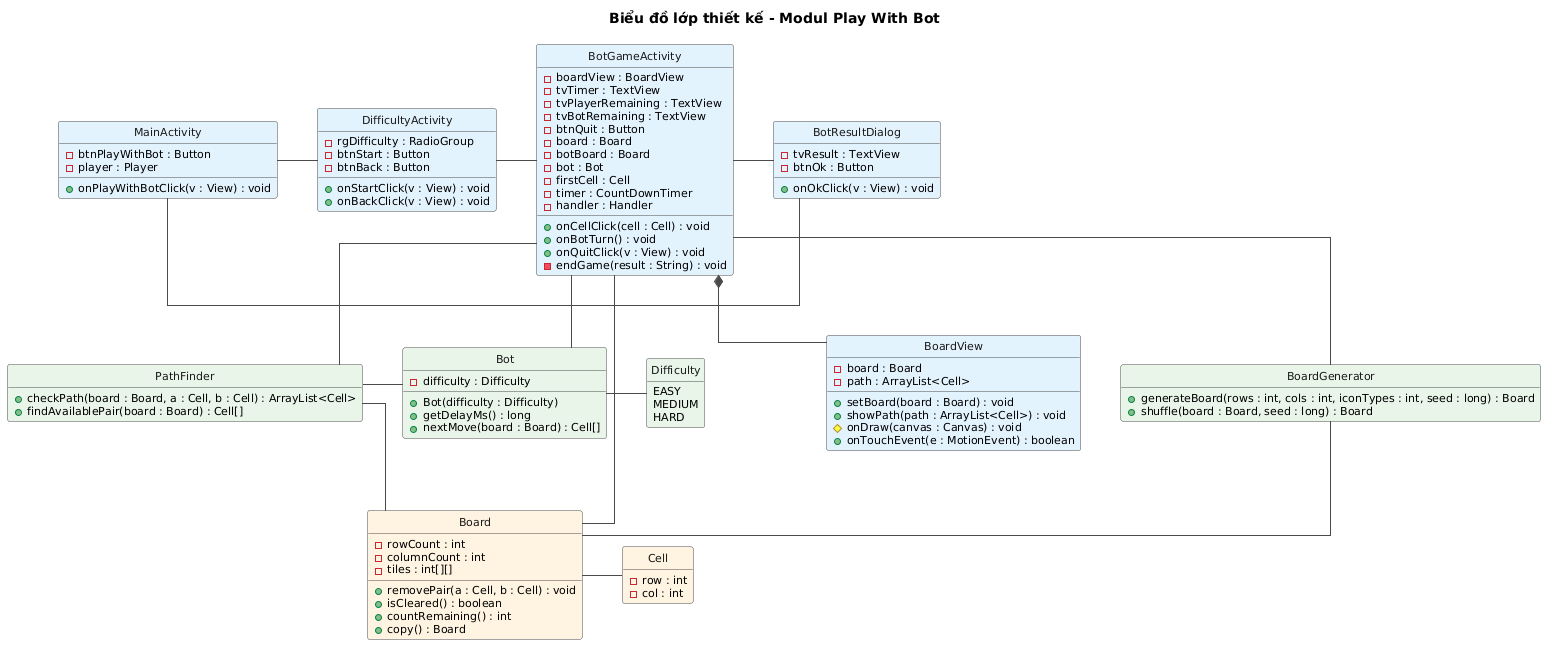
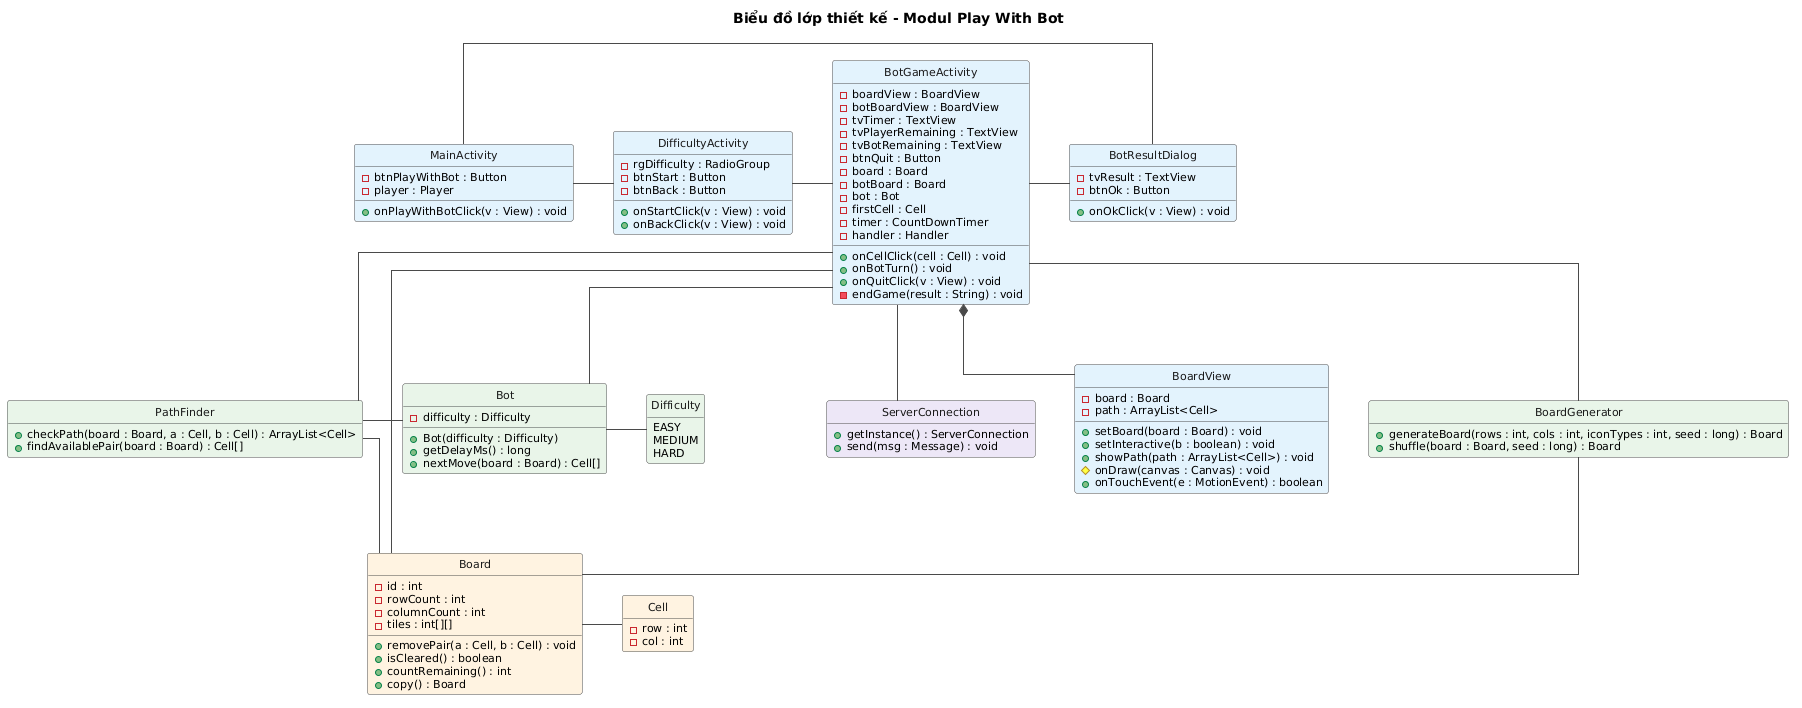
docs: review phase 3 and fix gaps before sharing
- Drop the solo mode: it had no requirement in phase 1-2 (phase 3 text,
  ui-m2, ui-m3, protocol, phase 4 row, phase 5 SO_1-SO_4).
- Board gets an id in the entity design (textbook step 1); it goes away
  when tblBoard is merged into tblMatch and tblMatchResult.
- Training status is now designed: BotGameActivity sends UPDATE_STATUS
  (v3, sequence, activity and class diagrams of M2), handled by
  ChallengeController.handleUpdateStatus(). New abstract BaseActivity
  opens InvitationDialog on any screen and leaves a bot game on
  MATCH_START. New test CP_18.
- Invite rule is "not busy" (idle or training) in v3 M3 and phase 4.
- One main-screen layout across ui-m1/m2/m3; invitation buttons are
  OK / Reject as in the assignment; result question matches phase 2.
- getTotalPoints shows 0 for players without matches; the board
  generator and shuffle create Random once before the loop.
- Package diagram lists BaseActivity and ChallengeConfirmDialog;
  activity M1 puts server swimlanes next to client ones like M3.
- Phase 3 no longer points to plan.md, so it reads on its own.
- Google Doc "BTL Mobile": phase 3 appended (19 figures, 4 tables);
  phase 1-2 and the teammate's figure 2.1 untouched.

diff --git a/docs/uml/pha3/gen_seq.py b/docs/uml/pha3/gen_seq.py
@@ -96,6 +96,7 @@ M2_PARTS = [
     ("boundary", "BotGameActivity", "BotGame\\nActivity"),
     ("boundary", "BoardView", None),
     ("boundary", "BotResultDialog", "BotResult\\nDialog"),
+    ("control", "ServerConnection", "Server\\nConnection"),
     ("control", "BoardGenerator", None),
     ("control", "PathFinder", None),
     ("control", "Bot", None),
@@ -119,6 +120,7 @@ M2 = [
     ("call", "BotGameActivity", "Bot", "gọi", "Lớp `BotGameActivity` gọi lớp `Bot` yêu cầu khởi tạo máy theo độ khó."),
     ("self", "Bot", None, "Bot()", "Lớp `Bot` gọi hàm khởi tạo `Bot()`."),
     ("ret", "Bot", "BotGameActivity", "trả về", "Lớp `Bot` trả đối tượng máy cho lớp `BotGameActivity`."),
+    ("call", "BotGameActivity", "ServerConnection", "send(UPDATE_STATUS)", "Lớp `BotGameActivity` gọi lớp `ServerConnection` yêu cầu gửi message `UPDATE_STATUS` với trạng thái luyện tập."),
     ("call", "BotGameActivity", "BoardView", "setBoard()", "Lớp `BotGameActivity` gọi hàm `setBoard()` của lớp `BoardView` và bắt đầu đồng hồ."),
     ("msg", "BoardView", "Player", "hiển thị", "Lớp `BoardView` hiển thị bàn chơi, đồng hồ và số ô còn lại cho người chơi."),
     ("loop", "lặp đến khi một bên xóa hết ô hoặc hết giờ"),
@@ -149,7 +151,8 @@ M2 = [
     ("ret", "Board", "BotGameActivity", "trả về", "Hàm `removePair()` trả kết quả cho lớp `BotGameActivity`."),
     ("msg", "BotGameActivity", "Player", "hiển thị", "Lớp `BotGameActivity` vẽ nước đi của máy lên bàn thu nhỏ của máy và hiển thị số ô còn lại của máy cho người chơi."),
     ("end",),
-    ("call", "BotGameActivity", "BotResultDialog", "gọi", "Lớp `BotGameActivity` dừng đồng hồ, xác định kết quả và gọi lớp `BotResultDialog`."),
+    ("call", "BotGameActivity", "ServerConnection", "send(UPDATE_STATUS)", "Lớp `BotGameActivity` dừng đồng hồ, xác định kết quả và gọi lớp `ServerConnection` yêu cầu gửi message `UPDATE_STATUS` với trạng thái rỗi."),
+    ("call", "BotGameActivity", "BotResultDialog", "gọi", "Lớp `BotGameActivity` gọi lớp `BotResultDialog`."),
     ("msg", "BotResultDialog", "Player", "hiển thị", "Lớp `BotResultDialog` hiển thị kết quả ván cho người chơi."),
     ("msg", "Player", "BotResultDialog", "click OK", "Người chơi click nút OK."),
     ("call", "BotResultDialog", "MainActivity", "gọi", "Lớp `BotResultDialog` gọi lại lớp `MainActivity`."),
@@ -175,7 +178,7 @@ M3A_PARTS = [
     ("actor", "B", "Người chơi B"),
 ]
 M3A = [
-    ("msg", "A", "MainActivity", "click tên B", "Tại giao diện chính, người chơi A click vào tên người chơi B đang rỗi."),
+    ("msg", "A", "MainActivity", "click tên B", "Tại giao diện chính, người chơi A click vào tên người chơi B (không bận: rỗi hoặc luyện tập)."),
     ("call", "MainActivity", "ChallengeConfirmDialog", "gọi", "Lớp `MainActivity` gọi lớp `ChallengeConfirmDialog`."),
     ("msg", "ChallengeConfirmDialog", "A", "hiển thị", "Lớp `ChallengeConfirmDialog` hiển thị dialog xác nhận thách đấu B cho A."),
     ("msg", "A", "ChallengeConfirmDialog", "click xác nhận", "A click nút Xác nhận."),
@@ -185,7 +188,7 @@ M3A = [
     ("msg", "ServerConnection", "ClientHandler", "INVITE (TCP)", "Lớp `ServerConnection` gửi message `INVITE` qua TCP tới lớp `ClientHandler` của A trên server."),
     ("call", "ClientHandler", "ChallengeController", "handleInvite()", "Lớp `ClientHandler` gọi hàm `handleInvite()` của lớp `ChallengeController`."),
     ("call", "ChallengeController", "OnlinePlayerManager", "gọi", "Lớp `ChallengeController` gọi lớp `OnlinePlayerManager` yêu cầu gửi lời mời từ A tới B."),
-    ("self", "OnlinePlayerManager", None, "sendInvitation()", "Lớp `OnlinePlayerManager` gọi hàm `sendInvitation()`, kiểm tra B đang online và rỗi."),
+    ("self", "OnlinePlayerManager", None, "sendInvitation()", "Lớp `OnlinePlayerManager` gọi hàm `sendInvitation()`, kiểm tra B đang online và không bận."),
     ("call", "OnlinePlayerManager", "ClientHandler", "send(INVITE_RECEIVED)", "Hàm `sendInvitation()` gọi lớp `ClientHandler` của B gửi message `INVITE_RECEIVED`."),
     ("ret", "OnlinePlayerManager", "ChallengeController", "trả về", "Hàm `sendInvitation()` trả kết quả cho lớp `ChallengeController`."),
     ("msg", "ClientHandler", "ServerConnection", "INVITE_RECEIVED (TCP)", "Lớp `ClientHandler` của B gửi message `INVITE_RECEIVED` qua TCP tới lớp `ServerConnection` trên máy B."),

diff --git a/docs/pha4-cai-dat.md b/docs/pha4-cai-dat.md
@@ -30,7 +30,7 @@ pikachu/
 │   └── protocol/   Message, MessageType
 ├── core/src/test/java/...           PathFinderTest, BoardGeneratorTest, BoardTest, BotTest
 ├── app/src/main/java/ptit/e23cnpm01/pikachu/
-│   ├── view/       LoginActivity, MainActivity, RankingActivity, DifficultyActivity,
+│   ├── view/       LoginActivity, BaseActivity, MainActivity, RankingActivity, DifficultyActivity,
 │   │               BotGameActivity, MatchActivity, ChallengeConfirmDialog, InvitationDialog,
 │   │               ResultDialog, BotResultDialog, BoardView
 │   └── network/    ServerConnection, MessageListener, ClientSession
@@ -142,11 +142,10 @@ public abstract class DAO {
 | Lớp | Phương thức | Cách hoạt động |
 |---|---|---|
 | `DifficultyActivity` | `onStartClick()` | lấy độ khó của thẻ đang chọn, mở `BotGameActivity` kèm độ khó |
-| `BotGameActivity` | `onCreate()` | `BoardGenerator.generateBoard(10, 10, 25, seed)`, sao bàn cho máy, tạo `Bot`, gắn bàn vào `BoardView`, chạy `CountDownTimer` 10 phút, hẹn lượt máy đầu tiên bằng `handler.postDelayed(..., bot.getDelayMs())` |
+| `BotGameActivity` | `onCreate()` | `BoardGenerator.generateBoard(10, 10, 25, seed)`, sao bàn cho máy, tạo `Bot`, gắn bàn vào `BoardView`, chạy `CountDownTimer` 10 phút, hẹn lượt máy đầu tiên bằng `handler.postDelayed(..., bot.getDelayMs())`; gửi `UPDATE_STATUS` với `TRAINING` |
 | | `onCellClick()` | lần click đầu lưu `firstCell`; lần thứ hai gọi `PathFinder.checkPath()`; có đường thì `board.removePair()`, vẽ đường, kiểm tra `isCleared()` (xong thì `endGame("WIN")`), kiểm tra bế tắc bằng `findAvailablePair()` và `shuffle()` khi cần; không có đường thì bỏ chọn |
 | | `onBotTurn()` | `bot.nextMove(botBoard)` trên luồng nền; rỗng thì xáo bàn của máy; có cặp thì xóa trên `botBoard` và vẽ nước đi lên bàn thu nhỏ (`botBoardView.showMatch()`), cập nhật số ô của máy; máy hết ô thì `endGame("LOSE")`, chưa thì hẹn lượt tiếp |
-| | `onQuitClick()`, hết giờ | thoát: hủy hẹn giờ, về `MainActivity`; hết giờ: `endGame("DRAW")` |
-| | chế độ solo | không truyền độ khó thì không tạo máy; cột phải hiện bảng solo; xóa hết bàn thì báo hoàn thành kèm thời gian, hết giờ thì báo hết giờ; mở được từ sảnh hoặc từ màn đăng nhập (chưa đăng nhập thì không gửi `UPDATE_STATUS`) |
+| | `onQuitClick()`, hết giờ | thoát: hủy hẹn giờ, về `MainActivity`; hết giờ: `endGame("DRAW")`; khi ván kết thúc hoặc thoát đều gửi `UPDATE_STATUS` với `IDLE` |
 | `BoardView` | `onDraw()`, `onTouchEvent()` | chia khung vẽ thành lưới 12x12, vẽ ảnh nhân vật theo mã hình, viền ô đang chọn, đường nối trong khoảng 300 ms; đổi toạ độ chạm thành `Cell` |
 | `PathFinder`, `BoardGenerator`, `Bot` | | theo thuật toán ở pha 3, mục 8 |
 
@@ -155,12 +154,14 @@ public abstract class DAO {
 | Lớp | Phương thức | Cách hoạt động |
 |---|---|---|
 | `MainActivity` | `onPlayerClick()` | bỏ qua nếu người được chọn đang bận; mở `ChallengeConfirmDialog` với người được chọn |
-| | `onMessage()` | `ONLINE_LIST`: cập nhật danh sách; `INVITE_RECEIVED`: mở `InvitationDialog`; `INVITE_RESULT`: hiện thông báo bị từ chối hoặc đối thủ bận; `MATCH_START`: mở `MatchActivity` |
+| | `onMessage()` | `ONLINE_LIST`: cập nhật danh sách; `INVITE_RESULT`: hiện thông báo bị từ chối hoặc đối thủ bận; các message khác chuyển cho `BaseActivity.onMessage()` |
+| `BaseActivity` | `onMessage()` | `INVITE_RECEIVED`: mở `InvitationDialog` trên màn hình đang mở; `MATCH_START`: đóng màn hình hiện tại (`BotGameActivity` khi đóng thì hủy đồng hồ và lượt của máy) rồi mở `MatchActivity` |
 | `ChallengeConfirmDialog` | `onConfirmClick()` | đóng dialog, trả đối thủ về `MainActivity`; `MainActivity` gửi `INVITE`, hiện "Đang chờ ... trả lời" |
 | | `onCancelClick()` | đóng dialog, không gửi gì lên server |
 | `InvitationDialog` | `onOkClick()`, `onRejectClick()` | gửi `INVITE_REPLY` với `accept` tương ứng |
-| `ChallengeController` | `handleInvite()` | `OnlinePlayerManager.sendInvitation()`; người được mời không rỗi hoặc không online thì gửi `INVITE_RESULT` báo `BUSY` hoặc `OFFLINE` cho người mời |
-| | `handleInviteReply()` | từ chối: gửi `INVITE_RESULT` (`REJECTED`); chấp nhận: kiểm tra lại cả hai còn rỗi, `generateBoard()`, `MatchManager.createMatch()`, `updateStatus(..., BUSY)`, gửi `MATCH_START` cho hai người, rồi `broadcastOnlineList()` |
+| `ChallengeController` | `handleInvite()` | `OnlinePlayerManager.sendInvitation()`; người được mời đang bận hoặc không online thì gửi `INVITE_RESULT` báo `BUSY` hoặc `OFFLINE` cho người mời |
+| | `handleInviteReply()` | từ chối: gửi `INVITE_RESULT` (`REJECTED`); chấp nhận: kiểm tra lại cả hai chưa bận, `generateBoard()`, `MatchManager.createMatch()`, `updateStatus(..., BUSY)`, gửi `MATCH_START` cho hai người, rồi `broadcastOnlineList()` |
+| | `handleUpdateStatus()` | bỏ qua nếu người gửi đang `BUSY`; ngược lại `OnlinePlayerManager.updateStatus()` theo `status` trong message rồi `broadcastOnlineList()` |
 | `MatchActivity` | `onCellClick()` | hai lần click thì gửi `MOVE`; trong lúc chờ phản hồi không nhận thêm click |
 | | `onMessage()` | `MOVE_RESULT`: hợp lệ thì xóa hai ô, vẽ đường; `BOARD_SHUFFLED`: thay bàn; `OPPONENT_PROGRESS`: vẽ nước đi của đối thủ lên bàn thu nhỏ, thay bằng `tiles` server gửi, cập nhật số ô đối thủ; `MATCH_END`: mở `ResultDialog` |
 | `MatchController` | `handleMove()` | khóa `MatchRoom`; từ chối nếu người gửi không thuộc ván `matchId` hoặc ván đã kết thúc (kiểm tra này dùng chung cho `handleLeaveMatch()`, `handleRematchReply()`); lấy bàn của người gửi; `checkPath()`; hợp lệ thì `removePair()`; `isCleared()` thì ghi `finishTime` theo đồng hồ server và `endMatch(room, "CLEARED")`; chưa thì kiểm tra bế tắc, xáo riêng bàn đó và gửi `BOARD_SHUFFLED`; gửi `MOVE_RESULT` cho người gửi, `OPPONENT_PROGRESS` cho đối thủ |
